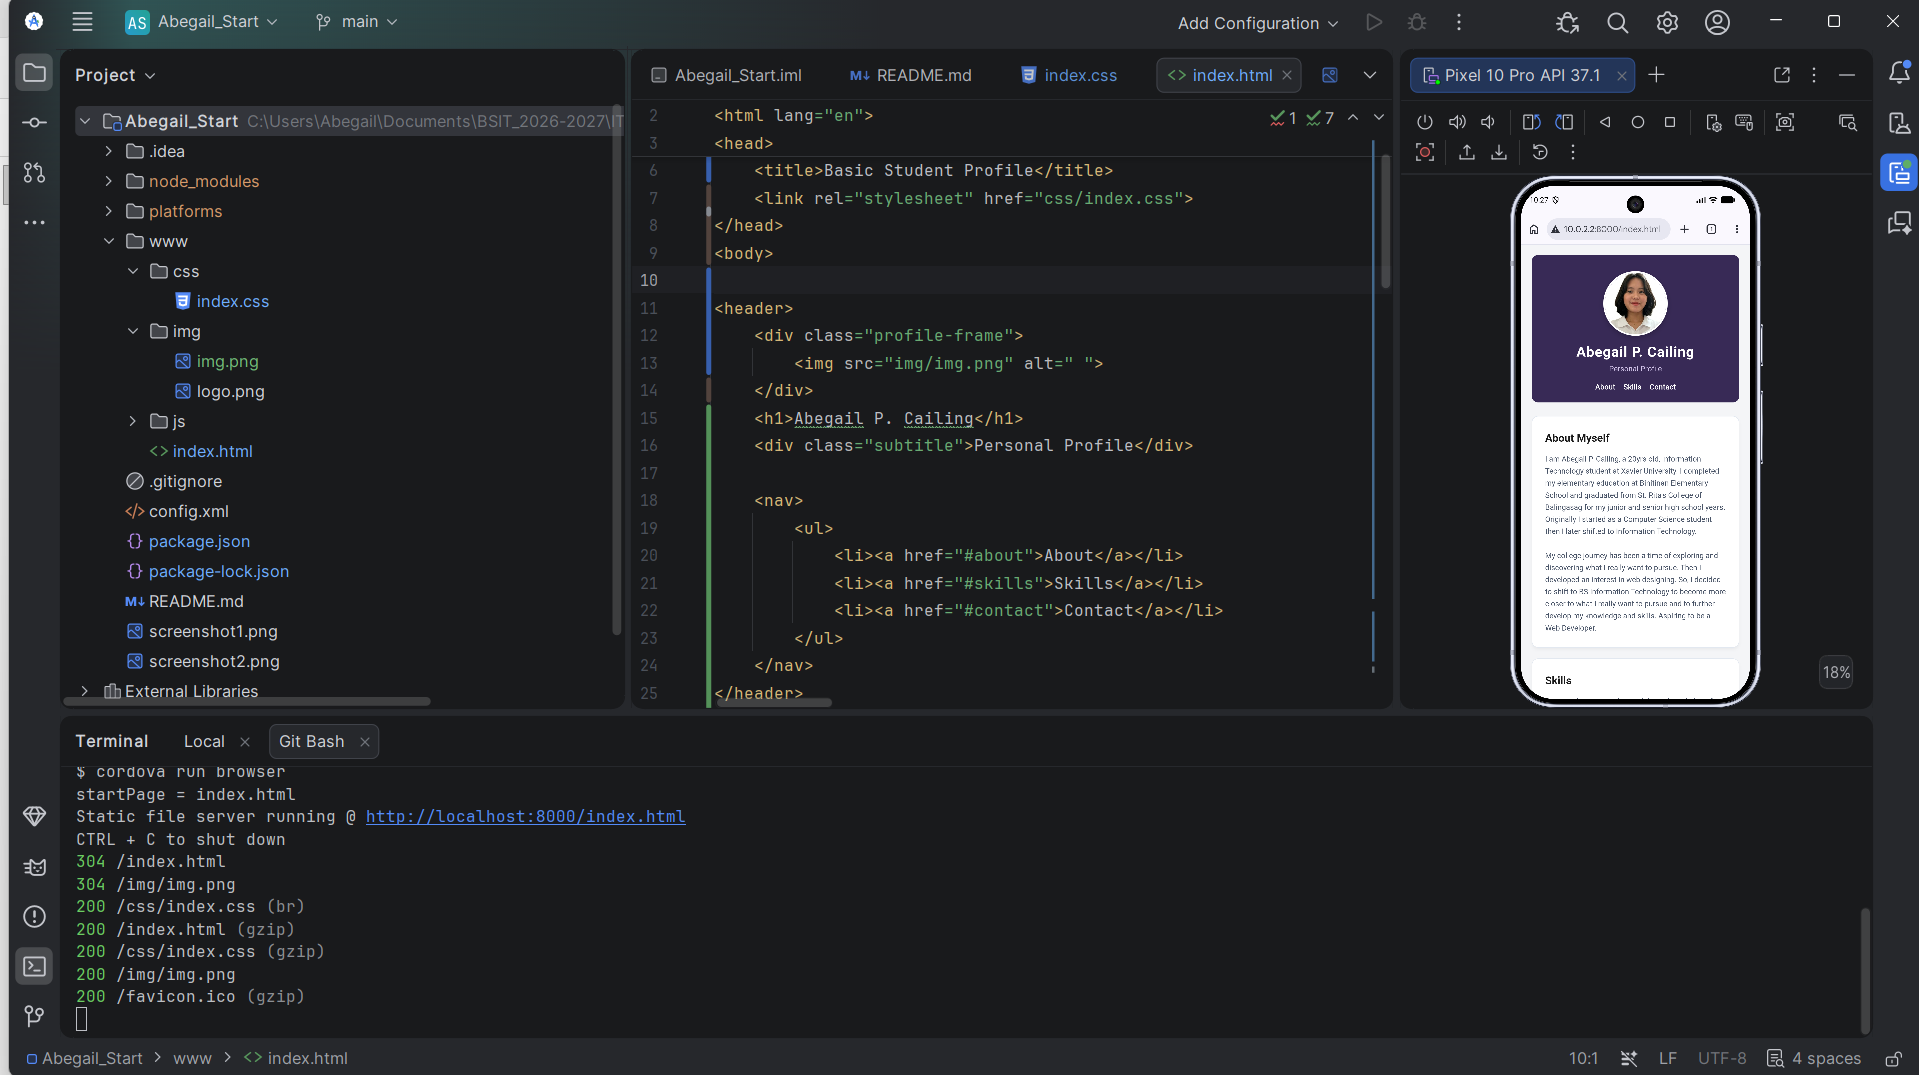
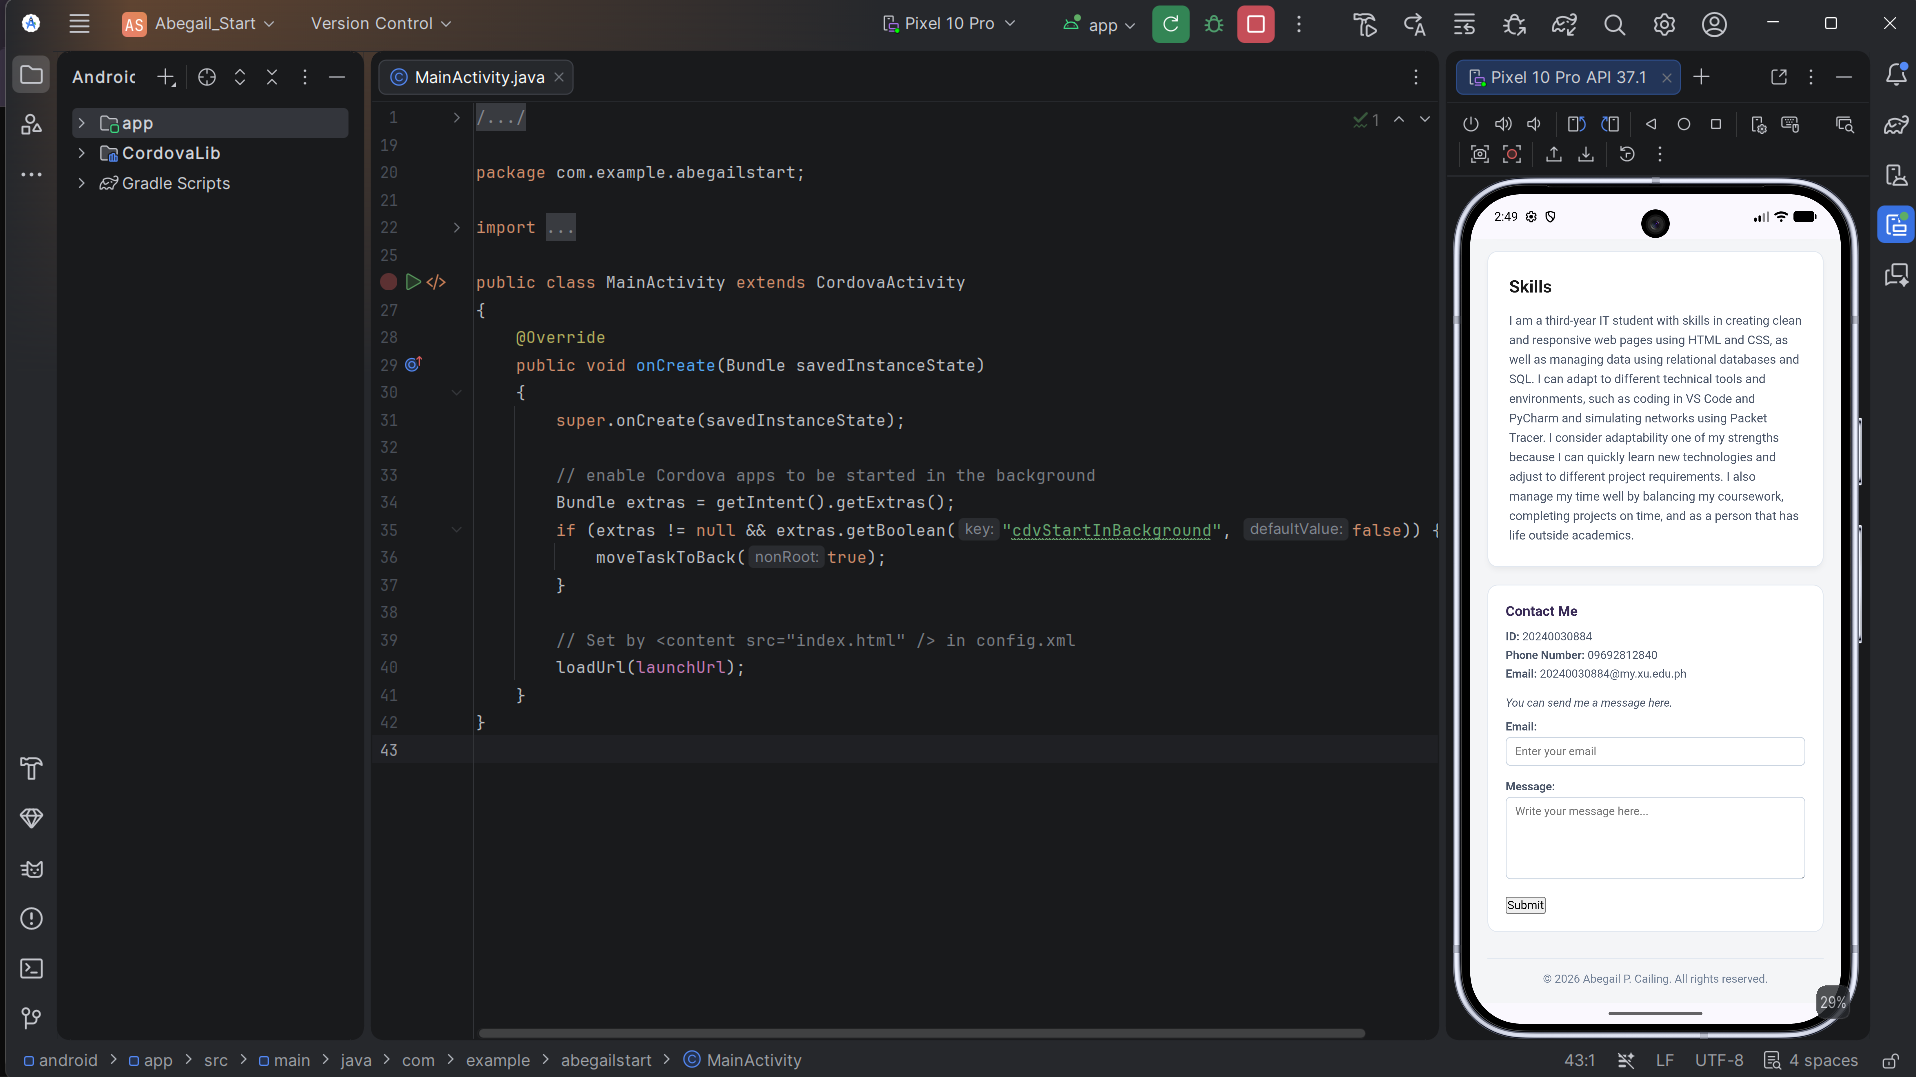
Update profile layout and mobile styling

diff --git a/www/index.html b/www/index.html
@@ -40,7 +40,7 @@
 
         <section id="skills" class="content-card">
             <h2 class="section-title">Skills</h2>
-            <p>I am a 3rd-year IT student with basic knowledge of HTML, CSS, and JavaScript. I have learned how to create simple web pages, work with basic databases and SQL, and use tools like Git, Packet Tracer, PyCharm, and VS Code for my school projects. I am still improving my coding skills and learning more about different areas of Information Technology.</p>
+            <p>I am a third-year IT student with skills in creating clean and responsive web pages using HTML and CSS, as well as managing data using relational databases and SQL. I can adapt to different technical tools and environments, such as coding in VS Code and PyCharm and simulating networks using Packet Tracer. I consider adaptability one of my strengths because I can quickly learn new technologies and adjust to different project requirements. I also manage my time well by balancing my coursework, completing projects on time, and as a person that has life outside academics.</p>
         </section>
     </main>
 

diff --git a/www/css/index.css b/www/css/index.css
@@ -11,18 +11,16 @@ body {
   padding: 20px;
 }
 
-/* SMOOTH SCROLLING */
 html {
   scroll-behavior: smooth;
 }
 
-section[id], 
-aside[id], 
+section[id],
+aside[id],
 div[id] {
   scroll-margin-top: 25px;
 }
 
-/* HEADER & PROFILE PICTURE FIX */
 header {
   background: #382a56;
   color: #fff;
@@ -125,8 +123,8 @@ main, aside {
   margin-bottom: 12px;
 }
 
-.sidebar-list { 
-  list-style: none; 
+.sidebar-list {
+  list-style: none;
 }
 
 .sidebar-list li {
@@ -166,7 +164,6 @@ main, aside {
   min-height: 80px;
 }
 
-/* FOOTER & RESPONSIVE */
 footer {
   max-width: 1000px;
   margin: 30px auto 0;

diff --git a/README.md b/README.md
@@ -1,5 +1,9 @@
 # Activity 2 - Basic Student Profile
 
-## Basic Student Profile
+## Successful Basic Student Profile
+
+![Screenshot1](Screenshot1.png)
+
+![Screenshot2](Screenshot2.png)
 
 ![Screenshot3](Screenshot3.png)
